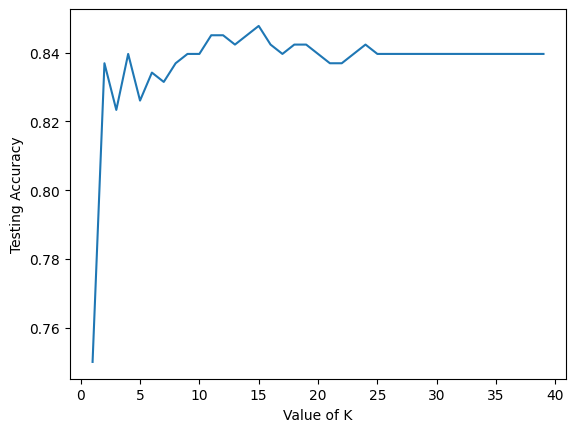
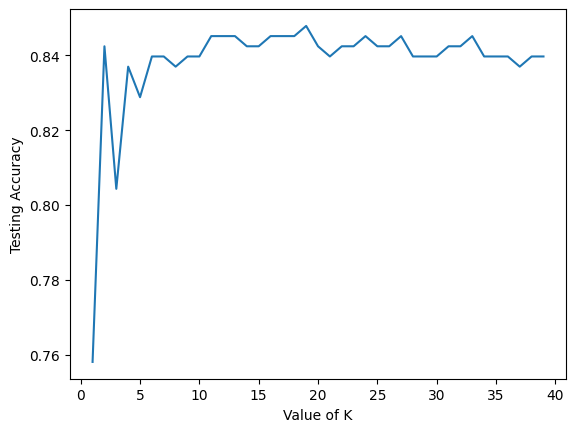
test/trained scores

diff --git a/scripts/attrition.py b/scripts/attrition.py
@@ -12,7 +12,7 @@ from sklearn.preprocessing import (
 )
 import matplotlib.pyplot as plt
 import numpy as np
-
+import seaborn as sns
 from common import DATA_FILE, OUTPUT
 
 
@@ -105,7 +105,7 @@ for key, value in test_score.items():
 k_range = range(1, 40)
 scores = []
 for k in k_range:
-    knn = KNeighborsClassifier(n_neighbors=k,metric='minkowski')
+    knn = KNeighborsClassifier(n_neighbors=k,metric='manhattan')
     knn.fit(X_train,np.ravel(y_train,order='C'))
     y_pred = knn.predict(X_test)
     # appending the accuracy scores in the dictionary named scores.
@@ -116,4 +116,30 @@ plt.xlabel('Value of K')
 plt.ylabel('Testing Accuracy')
 plt.savefig(
     OUTPUT.joinpath("minkowski.png"), bbox_inches="tight", transparent=True
+)
+test_scores = []
+train_scores = []
+for i in range(1,15):
+    knn = KNeighborsClassifier(i)
+    knn.fit(X_train,y_train) 
+    train_scores.append(knn.score(X_train,y_train))
+    test_scores.append(knn.score(X_test,y_test))
+    
+## Training Evaluation
+max_train_score = max(train_scores)
+# # Store the max train test score index by enumerating through all the scores.
+train_scores_ind = [i for i, v in enumerate(train_scores) if v == max_train_score]
+# Store the max score in the first curly parenthesis and the indices in the second.
+# The lambda function takes the index starting at zero therefore one is added to get the k value.
+print('Max train score {} % and k = {}'.format(max_train_score*100,list(map(lambda x: x+1, train_scores_ind))))
+## Testing Evaluation
+max_test_score = max(test_scores)
+test_scores_ind = [i for i, v in enumerate(test_scores) if v == max_test_score]
+print('Max test score {} % and k = {}'.format(max_test_score*100,list(map(lambda x: x+1, test_scores_ind))))
+## Train Test Evaluation by comparative graph.
+plt.figure(figsize=(12,5))
+p = sns.lineplot(train_scores,label='Train Score')
+p = sns.lineplot(test_scores,label='Test Score')
+plt.savefig(
+    OUTPUT.joinpath("test.png"), bbox_inches="tight", transparent=True
 )
